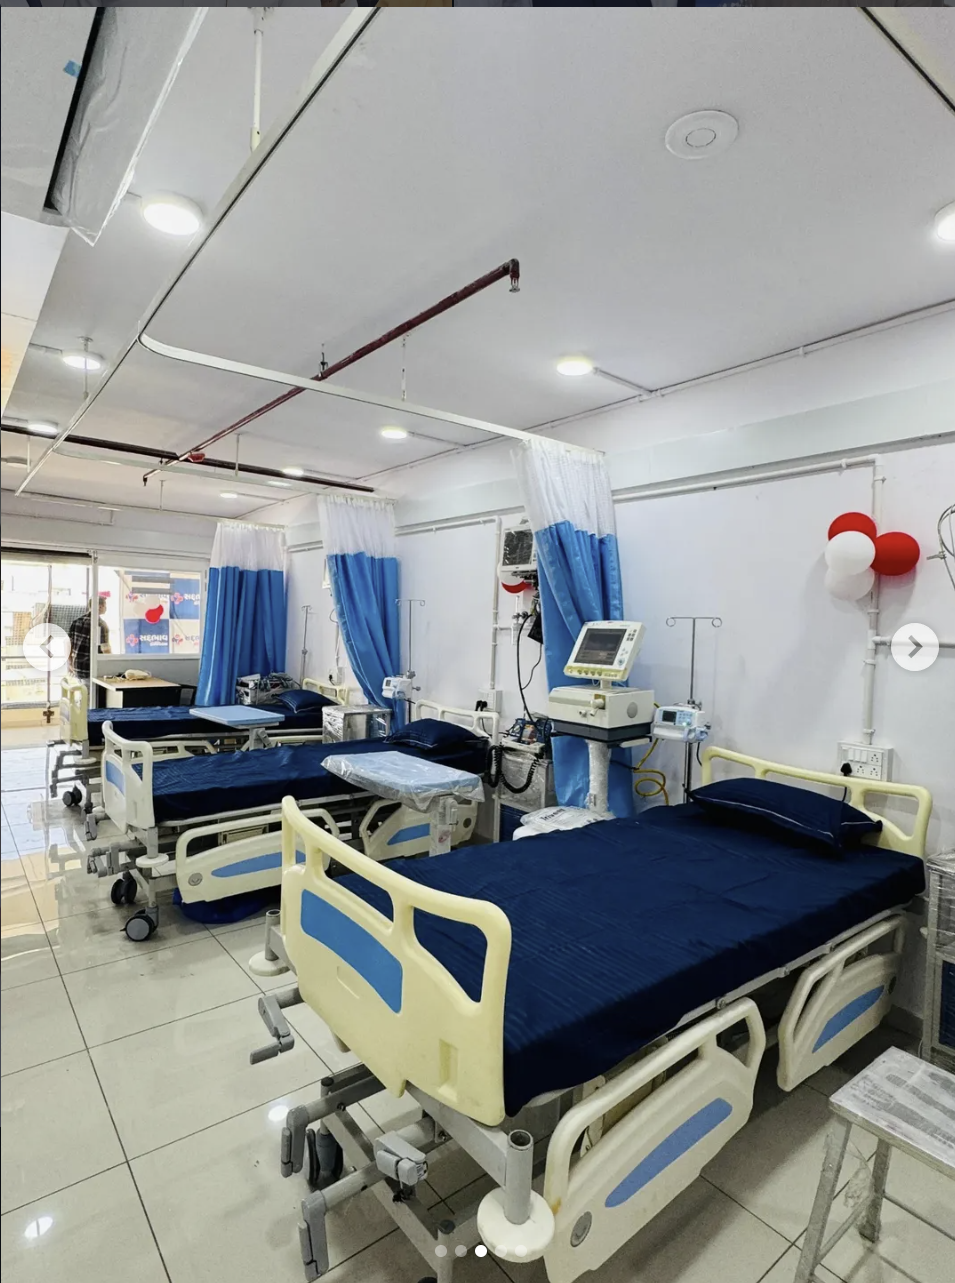
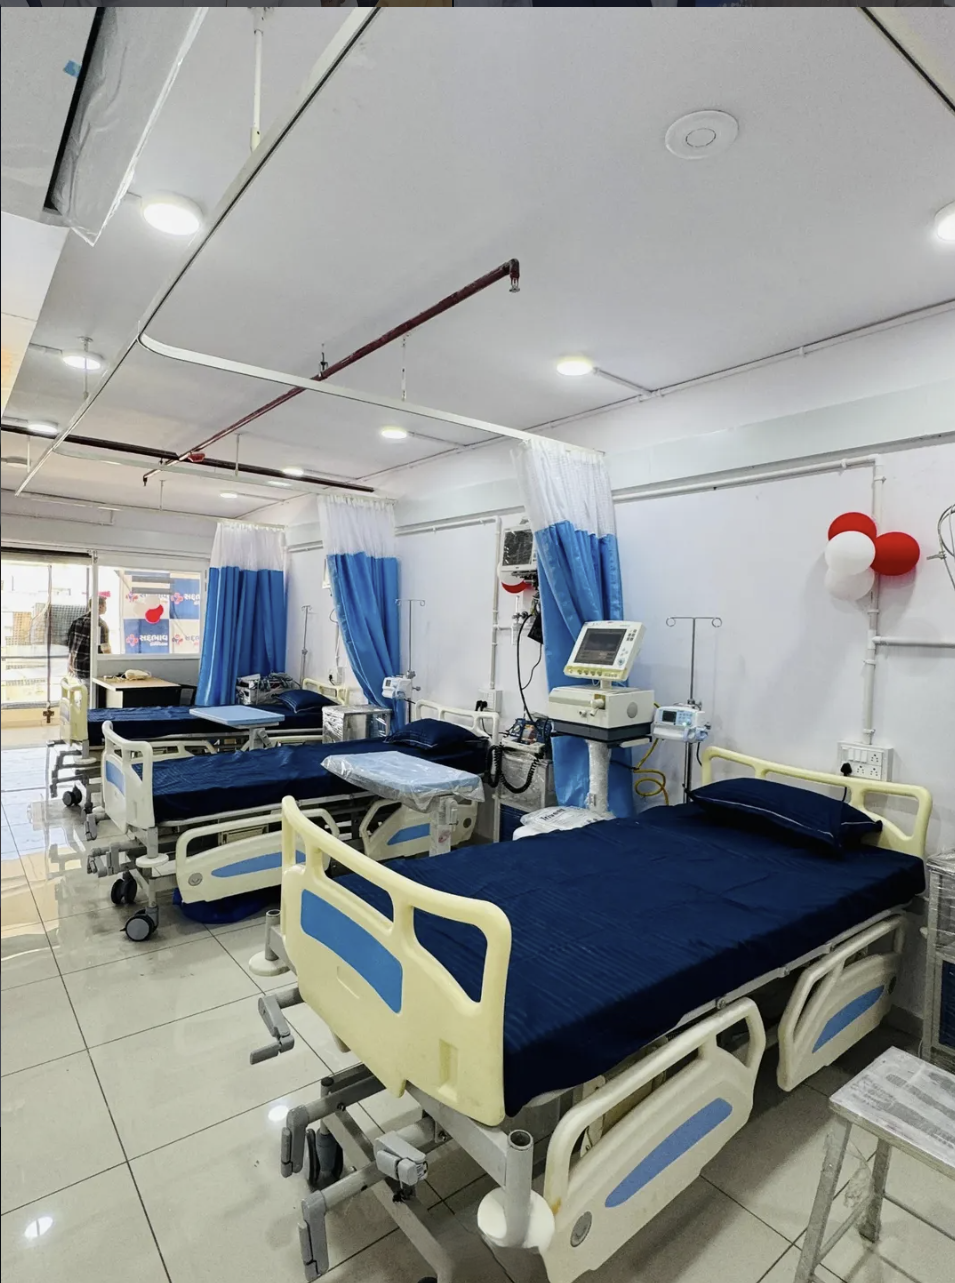
Adding images

Changed region(s): [[0.4555, 0.9353, 0.577, 0.9977], [0.911, 0.4677, 1.0, 0.53], [0.0304, 0.4677, 0.0911, 0.53]]

diff --git a/frontend/src/sections/HeroSection.jsx b/frontend/src/sections/HeroSection.jsx
@@ -1,10 +1,24 @@
+import { useState, useEffect } from 'react'
 import { Phone, Calendar } from 'lucide-react'
 import { getIcon } from '../utils/icons'
-import HospitalImage from '../components/ui/HospitalImage'
 import RevealWrapper from '../components/ui/RevealWrapper'
 import { SITE, TRUST_BADGES } from '../data/site'
 
+const HERO_SLIDES = [
+  { src: '/Reception.png', alt: 'Sadbhav Hospital reception' },
+  { src: '/AC Private room.png', alt: 'AC private rooms' },
+  { src: '/Consultation Cabin.png', alt: 'Consultation cabin' },
+  { src: '/General Ward.png', alt: 'General ward' },
+]
+
 export default function HeroSection() {
+  const [slide, setSlide] = useState(0)
+
+  useEffect(() => {
+    const t = setInterval(() => setSlide(s => (s + 1) % HERO_SLIDES.length), 4000)
+    return () => clearInterval(t)
+  }, [])
+
   return (
     <section
       id="home"
@@ -115,19 +129,27 @@ export default function HeroSection() {
           {/* ── Right — Visual composition ── */}
           <RevealWrapper delay={150} direction="left" className="relative hidden lg:block">
             <div className="relative z-10">
-              {/* Hero visual panel using image system */}
-              <HospitalImage
-                src="/Reception.png"
-                alt="Sadbhav Hospital reception"
-                aspect="hero"
-                gradient="navy"
-                overlay
-                overlayOpacity={0.35}
-                className="w-full rounded-3xl shadow-premium"
+              {/* Hero visual panel — auto-sliding */}
+              <div
+                className="relative w-full rounded-3xl shadow-premium overflow-hidden"
+                style={{ aspectRatio: '4/5' }}
               >
+                {/* Slides */}
+                {HERO_SLIDES.map((s, i) => (
+                  <img
+                    key={s.src}
+                    src={s.src}
+                    alt={s.alt}
+                    className={`absolute inset-0 w-full h-full object-cover transition-opacity duration-700 ${i === slide ? 'opacity-100' : 'opacity-0'}`}
+                  />
+                ))}
+
+                {/* Dark overlay */}
+                <div className="absolute inset-0 bg-navy-900" style={{ opacity: 0.35 }} aria-hidden="true" />
+
                 {/* Dot pattern */}
                 <div
-                  className="absolute inset-0 opacity-[0.06]"
+                  className="absolute inset-0 opacity-[0.06] z-10"
                   style={{
                     backgroundImage: 'radial-gradient(circle, white 1.5px, transparent 1.5px)',
                     backgroundSize: '22px 22px',
@@ -135,14 +157,15 @@ export default function HeroSection() {
                   aria-hidden="true"
                 />
                 {/* Medical cross watermark */}
-                <div className="absolute inset-0 flex items-center justify-center opacity-[0.04]" aria-hidden="true">
+                <div className="absolute inset-0 flex items-center justify-center opacity-[0.04] z-10" aria-hidden="true">
                   <svg viewBox="0 0 200 200" className="w-3/4">
                     <rect x="80" y="20" width="40" height="160" rx="8" fill="white" />
                     <rect x="20" y="80" width="160" height="40" rx="8" fill="white" />
                   </svg>
                 </div>
+
                 {/* Caption */}
-                <div className="absolute inset-0 p-8 md:p-10 pb-20 md:pb-24 flex flex-col justify-end text-white/90">
+                <div className="absolute inset-0 p-8 md:p-10 pb-20 md:pb-24 flex flex-col justify-end text-white/90 z-20">
                   <div className="mb-6">
                     <div className="w-16 h-px bg-white/30 mb-4" aria-hidden="true" />
                     <p className="font-display text-xl md:text-2xl font-medium leading-snug">
@@ -153,10 +176,23 @@ export default function HeroSection() {
                     </p>
                   </div>
                 </div>
+
+                {/* Slide indicators */}
+                <div className="absolute bottom-5 left-1/2 -translate-x-1/2 flex gap-1.5 z-30">
+                  {HERO_SLIDES.map((_, i) => (
+                    <button
+                      key={i}
+                      onClick={() => setSlide(i)}
+                      aria-label={`Slide ${i + 1}`}
+                      className={`h-1.5 rounded-full transition-all duration-300 ${i === slide ? 'w-5 bg-white' : 'w-1.5 bg-white/40'}`}
+                    />
+                  ))}
+                </div>
+
                 {/* Decorative circles */}
-                <div className="absolute top-6 right-6 w-20 h-20 rounded-full bg-white/5 border border-white/10" aria-hidden="true" />
-                <div className="absolute top-14 right-14 w-9 h-9 rounded-full bg-white/5" aria-hidden="true" />
-              </HospitalImage>
+                <div className="absolute top-6 right-6 w-20 h-20 rounded-full bg-white/5 border border-white/10 z-20" aria-hidden="true" />
+                <div className="absolute top-14 right-14 w-9 h-9 rounded-full bg-white/5 z-20" aria-hidden="true" />
+              </div>
 
               {/* Floating stat — top left */}
               <div

diff --git a/frontend/src/data/facilities.js b/frontend/src/data/facilities.js
@@ -16,8 +16,8 @@ export const FACILITIES = [
     detail:
       'Private air-conditioned rooms for patients who prefer personal comfort and family privacy.',
     spec: 'Private & semi-private',
-    imageUrl: null,
-    bgGradient: 'linear-gradient(160deg, #1a4558 0%, #0d2a3a 100%)',
+    imageUrl: '/AC Private room.png',
+    bgGradient: null,
   },
   {
     id: 'waiting-area',
@@ -36,8 +36,8 @@ export const FACILITIES = [
     detail:
       'Well-ventilated, comfortable general ward with attentive nursing staff and regular physician rounds.',
     spec: 'Mixed-gender wards',
-    imageUrl: null,
-    bgGradient: 'linear-gradient(160deg, #1a3564 0%, #0f2240 100%)',
+    imageUrl: '/General Ward.png',
+    bgGradient: null,
   },
   {
     id: 'consultation-cabin',
@@ -46,8 +46,8 @@ export const FACILITIES = [
     detail:
       'Dedicated, private consultation cabin for in-depth patient discussions, reviews, and follow-ups.',
     spec: 'Fully private',
-    imageUrl: null,
-    bgGradient: 'linear-gradient(160deg, #1a2a52 0%, #0d1a38 100%)',
+    imageUrl: '/Consultation Cabin.png',
+    bgGradient: null,
   },
   {
     id: 'respiratory-lab',